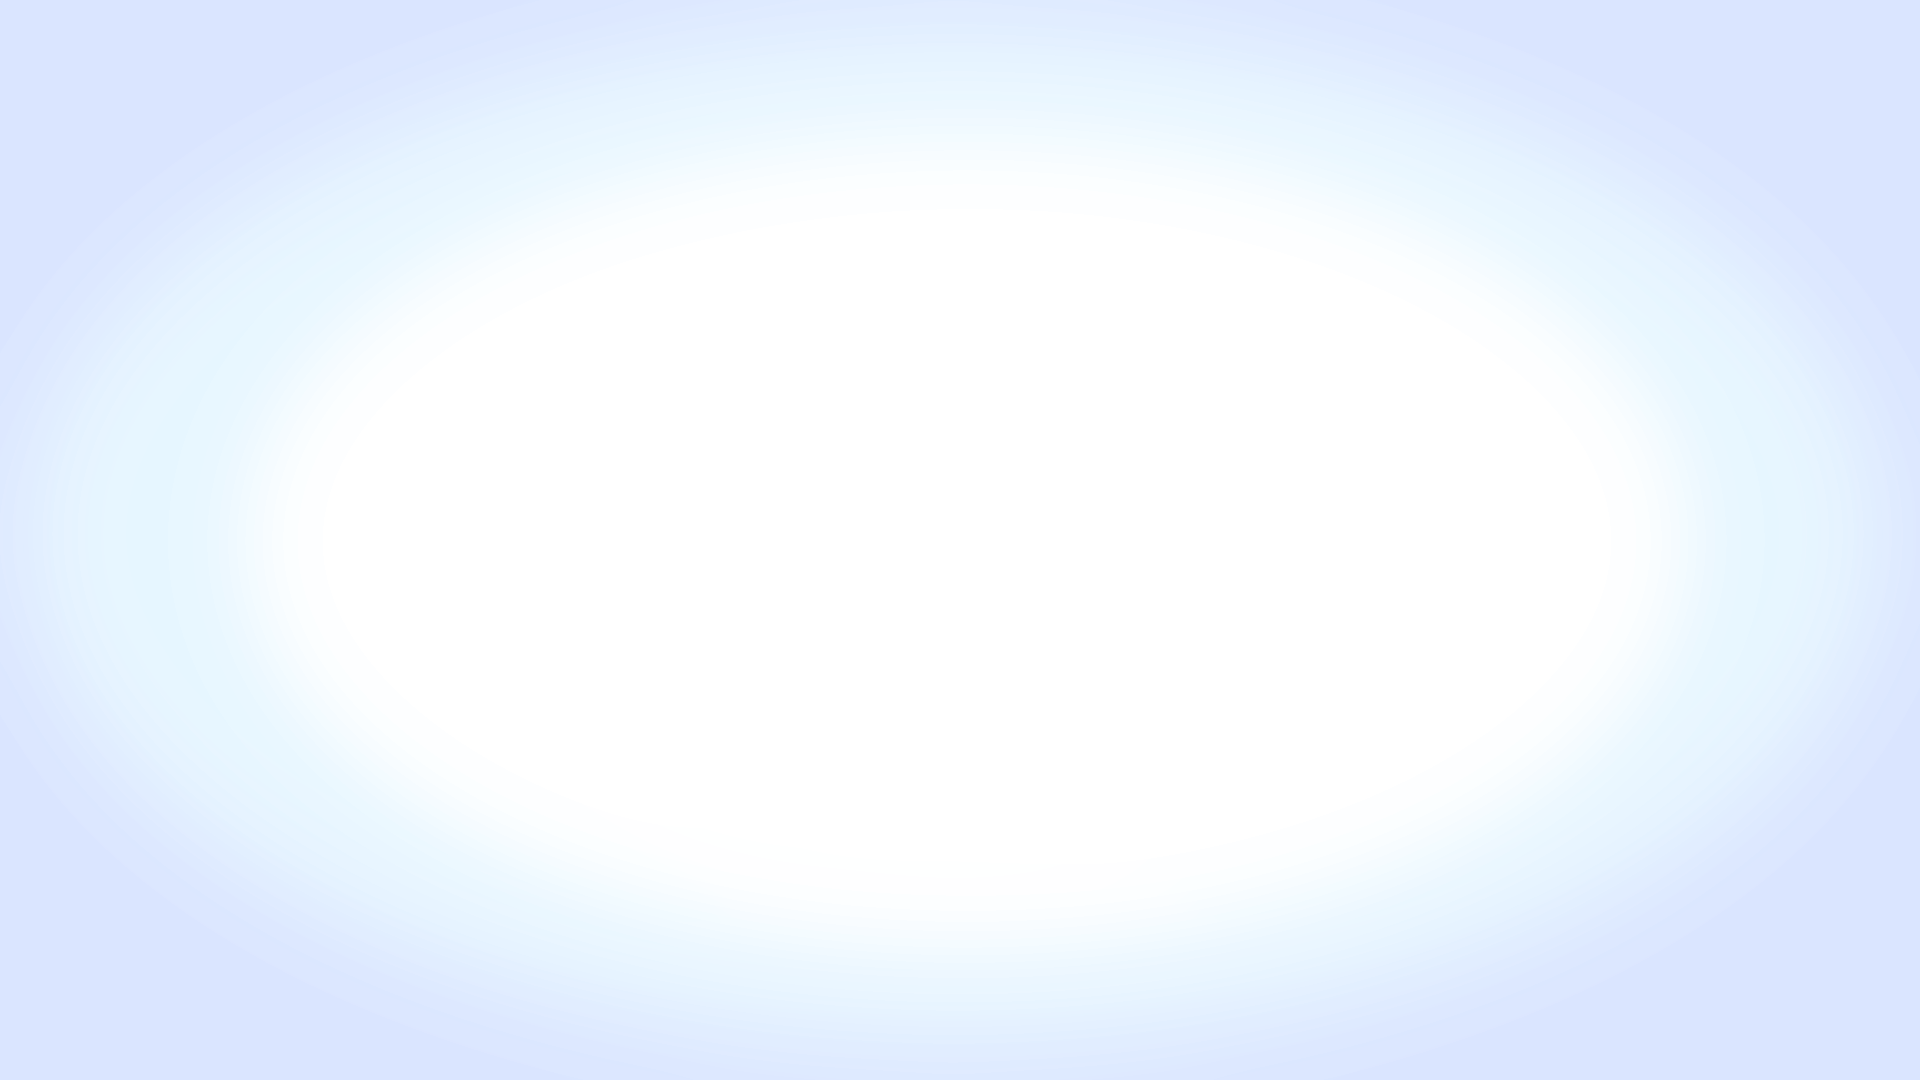
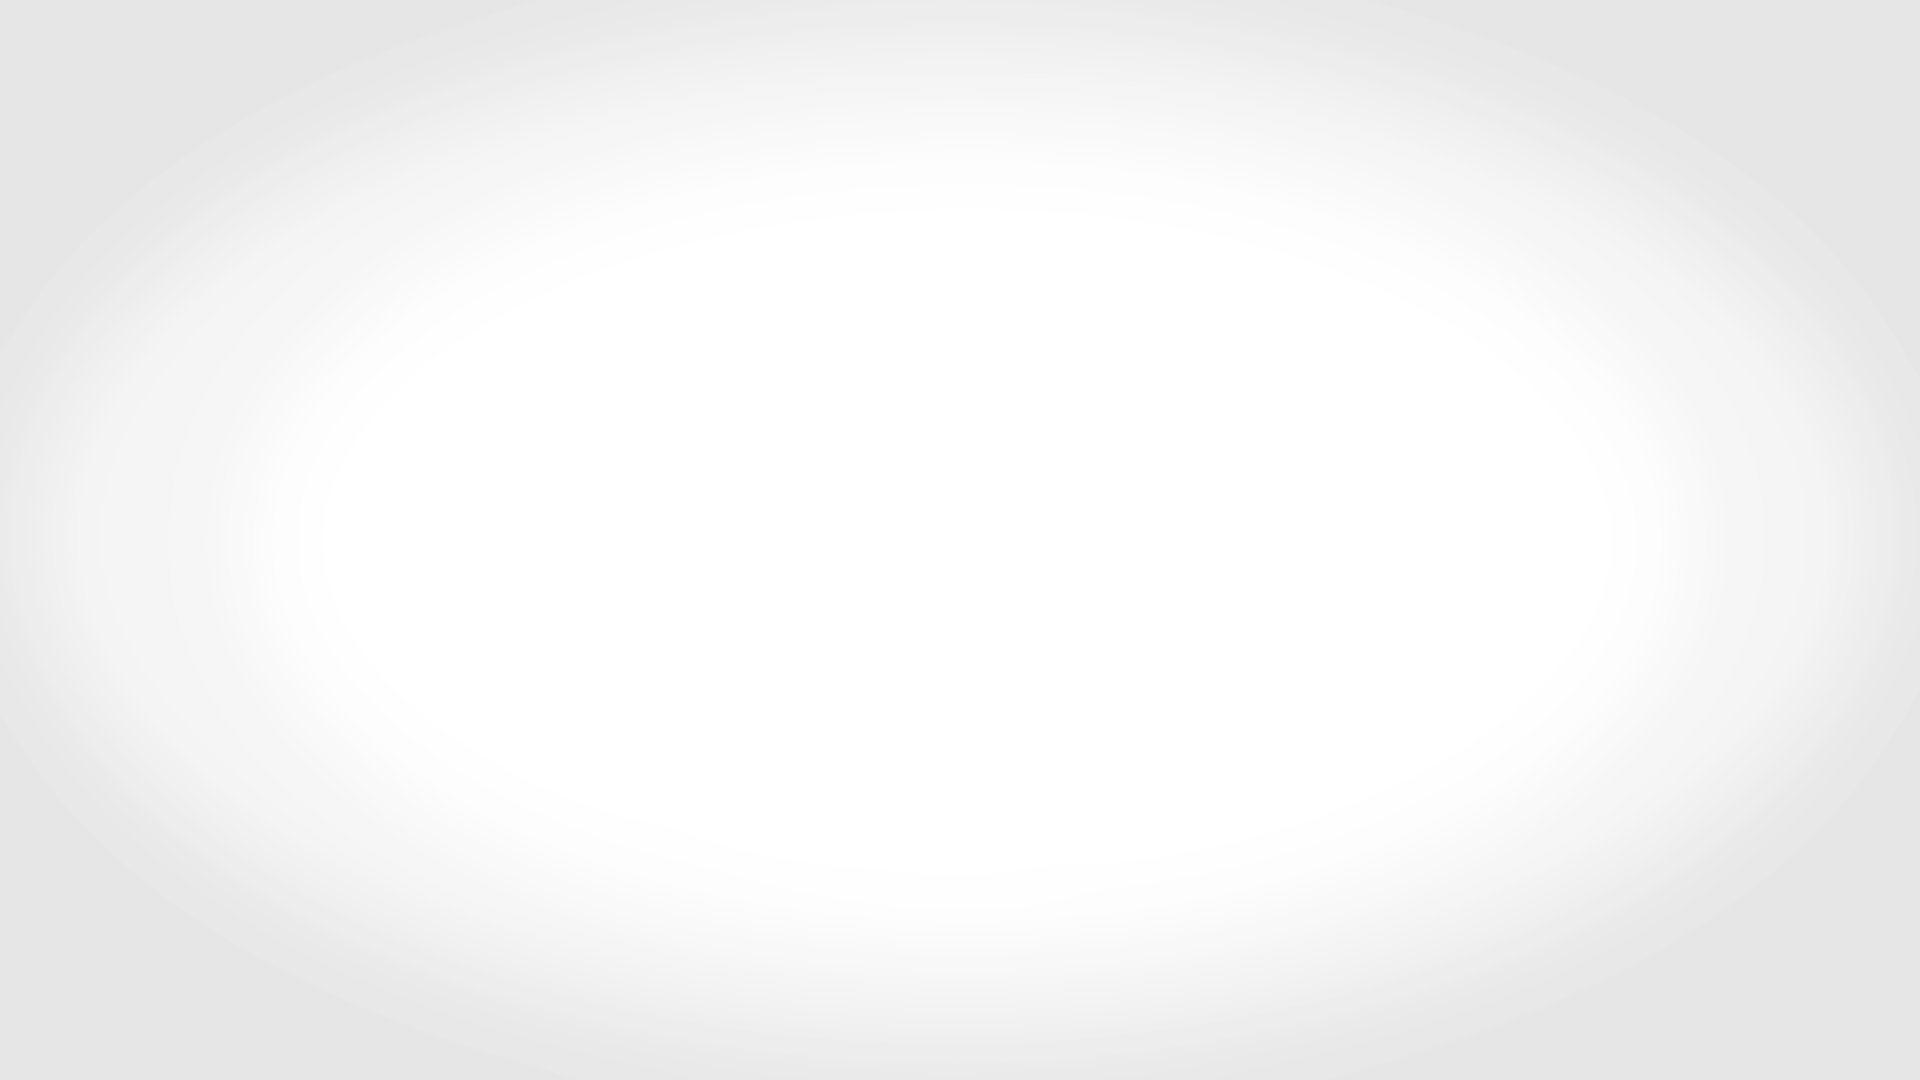
design update

diff --git a/index.html b/index.html
@@ -25,12 +25,7 @@
                 <img src="Assets/shroud.png" id="shroud">
                 <!-- UI Elements -->
                 <div align="center" style="position:absolute; top: 14%; width: 100vw; background-color: transparent;">
-                    <p style="font-size: 62px; text-align: center;" id="main-quoter">Dalton Fox</p>
-                    <img src="Assets/default.png" style="cursor: pointer; height: 22vh; width: auto; margin-top: -8vh; margin-bottom: -10vh; position: relative;">
-                    <div align="center" id="start-button">
-                        
-                        <h2 style="position: relative; padding-top: 2vh; border-top: 1px solid black; max-width: 500px; cursor: pointer; top: 9vh">Interactive Resume</h2>
-                    </div>
+                    
                 </div>
             </div>
 
@@ -38,6 +33,9 @@
             <div id="main-what">
                 <!-- Text -->
                 <div class="text-div">
+                    <br>
+                    <br>
+                    <br>
                     <h1>Introduction</h1>
                     <li>
                         Lorem ipsum dolor sit amet, consectetur adipiscing elit, sed do eiusmod tempor incididunt ut labore et dolore magna aliqua.
@@ -123,26 +121,15 @@
                 <div class="footer_div">
                     <table align="center" style="max-width: 1920px; padding-top: 2.5vh; border-spacing: 2.5vw;">
                         <tr>
-                            <td><a href="https://www.facebook.com/aspiretoimprove/"><img border="0" src="Assets/facebook_logo.png" width="36" height="36"></a></td>
-                            <td class="menu_footer"><a href="https://twitter.com/aspiretoimprove"><img border="0" src="Assets/twitter_logo.png" width="36" height="36"></a></td>
-                            <td class="menu_footer"><a href="https://www.youtube.com/channel/UC4r_WkEmYweu9nj_LwwuBLg"><img border="0" src="Assets/youtube_logo.png" width="36" height="36"></a></td>
-                            <td class="menu_footer"><a href="https://www.instagram.com/aspiretoimprove/"><img border="0" src="Assets/instagram_logo.png" width="36" height="36"></a></td>
-                        </tr>
-                    </table>
-                </div>
-                <!-- Bottom Footer -->
-                <div class="footer_div">
-                    <table align="center" style=" max-width: 1920px; padding-top: 2vh; border-spacing: 4.5vw;">
-                        <tr style="font-size: 10px">
-                            <td class="footer_link" id="footer-terms">Terms of Use</td>
-                            <td class="footer_link" id="footer-policy">Privacy Policy</td>
-                            <td class="footer_link" id="footer-support">Support</td>
-                            <td class="footer_link" id="footer-donate">Sponsors</td>
+                            <td><a href=""><img border="0" src="Assets/facebook_logo.png" width="36" height="36"></a></td>
+                            <td class="menu_footer"><a href=""><img border="0" src="Assets/twitter_logo.png" width="36" height="36"></a></td>
+                            <td class="menu_footer"><a href=""><img border="0" src="Assets/youtube_logo.png" width="36" height="36"></a></td>
+                            <td class="menu_footer"><a href=""><img border="0" src="Assets/instagram_logo.png" width="36" height="36"></a></td>
                         </tr>
                     </table>
                 </div>
                 <div class="footer_div">
-                    <table align="center" style="max-width: 1920px; border-spacing: 3vw;">
+                    <table align="center" style="max-width: 1920px; border-spacing: 2.5vw;">
                         <tr></tr>
                     </table>
                     <p id="copy-right" style="font-size: 80%;">COPYRIGHT © DALTON FOX 2018</p>
@@ -154,50 +141,10 @@
                 <!--<img src="Assets/Logo_transparent.png" style="padding-top: 1vh; width: auto; height: 20vh;">-->
             </div>
         </div>
-
-        <!-- Blog Page -->
-        <div class="hidden">
-
-        </div>
-
-        <!-- Support Page -->
-        <div class="hidden">
-
-        </div>
         
         <!-- Top Menu and Sub Menu -->
         <div id="menu">
-            <!--<input id="nav-logo" type="image" src="Assets/menu_logo.png">-->
-            <p id="nav-button" ></p>
-            <input type="checkbox" class="openSidebarMenu" id="openSidebarMenu">
-            <label for="openSidebarMenu" class="sidebarIconToggle">
-                <div class="spinner diagonal part-1"></div>
-                <div class="spinner horizontal"></div>
-                <div class="spinner diagonal part-2"></div>
-            </label>
-            <!-- Sub Menu Items -->
-            <div id="sub-menu">
-                <p class="menu_li">My Account</p>
-                <p class="menu_li">Database</p>
-                <p class="menu_li">Blog</p>
-                <p class="menu_li">About</p>
-                <p class="menu_li">Support</p>
-                <p class="menu_li">Contact Us</p>
-                <table class="menu_li" align="center" style="max-width: 1920px; padding-left: 1.5vw; border-spacing: 1.25vw; padding-top: 8vh;">
-                    <tr>
-                        <td><a href="https://www.facebook.com/aspiretoimprove/"><img border="0" src="Assets/facebook_logo.png" width="42" height="42"></a></td>
-                        <td class="menu_footer"><a href="https://twitter.com/aspiretoimprove"><img border="0" src="Assets/twitter_logo.png" width="42" height="42"></a></td>
-                        <td class="menu_footer"><a href="https://www.youtube.com/channel/UC4r_WkEmYweu9nj_LwwuBLg"><img border="0" src="Assets/youtube_logo.png" width="42" height="42"></a></td>
-                        <td class="menu_footer"><a href="https://www.instagram.com/aspiretoimprove/"><img border="0" src="Assets/instagram_logo.png" width="42" height="42"></a></td>
-                    </tr>
-                </table>
-            </div>
-            <!-- Pull-up Text Menu -->
-            <div id="pull-up" style="overflow: scroll">
-                <!-- Text -->
-                <p id="pull-up-head" class="menu_li" style="padding-top: 4vh;"></p>
-                <p id="pull-up-text" class="menu_li" style="overflow: scroll; margin-bottom: 200px"></p>
-            </div>
+            
         </div>
 
         <!-- PC Large Scale Design -->
@@ -208,7 +155,6 @@
         <script src="Modules/three.js"></script>
         <script src="Modules/Tween.js"></script>
         <script src="Modules/mobilecheck.js"></script>
-        <script src="Modules/policy.js"></script>
         <script src="main.js"></script>
     </body>
 </html>

diff --git a/main.js b/main.js
@@ -75,74 +75,12 @@ function init()
         window.addEventListener( 'resize', onWindowResize, false );
         document.addEventListener( 'mousemove', onDocumentMouseMove, false );
         onWindowResize();
-        document.getElementById("sub-menu").style.paddingTop = "5vh";
         var dElements = document.getElementsByClassName("footer_div");
         for(var i = 0; i < dElements.length; i++)
         {
             dElements[i].style.height = "55px";
         }
     }
-
-    // Sub Menu Controls
-    var sub_menu_open = false;
-    var pull_up_open = false;
-    window.onload = function()
-    {
-        document.getElementById("nav-button").onclick = function sub_menu_control()
-        {
-            if (sub_menu_open === false)
-            {
-                document.getElementById("sub-menu").style.opacity = 1;
-                document.getElementById("sub-menu").style.left = "0vw";
-                document.getElementById("sub-menu").style.top = "0vh";
-                document.getElementById("nav-button").src = "Assets/exit.png";
-                document.body.style.overflow = "hidden";
-                sub_menu_open = true
-            }
-            else if (sub_menu_open === true)
-            {
-                document.getElementById("sub-menu").style.opacity = 0;
-                document.getElementById("sub-menu").style.top = "-3vh";
-                document.getElementById("sub-menu").style.left = "100vw";
-                document.getElementById("nav-button").src = "Assets/drop.png";
-                document.body.style.overflow = "scroll";
-                sub_menu_open = false
-            }
-            if (pull_up_open)
-            {
-                document.getElementById("pull-up").style.opacity = 0;
-                document.getElementById("pull-up").style.top = "-3vw";
-                document.getElementById("pull-up").style.left = "100vw";
-                pull_up_open = false
-            }
-        };
-        document.getElementById("footer-terms").onclick = function sub_menu_terms()
-        {
-            document.getElementById("pull-up").scrollTop = 0;
-            document.getElementById("pull-up").style.opacity = 1;
-            document.getElementById("pull-up-head").textContent = "Terms of Service";
-            document.getElementById("pull-up-text").textContent = window.termsofservice;
-            document.getElementById("pull-up").style.left = "0vw";
-            document.getElementById("pull-up").style.top = "0vh";
-            document.getElementById("nav-button").src = "Assets/exit.png";
-            document.body.style.overflow = "hidden";
-            sub_menu_open = true;
-            pull_up_open = true;
-        };
-        document.getElementById("footer-policy").onclick = function sub_menu_policy()
-        {
-            document.getElementById("pull-up").scrollTop = 0;
-            document.getElementById("pull-up").style.opacity = 1;
-            document.getElementById("pull-up-head").textContent = "Privacy Policy";
-            document.getElementById("pull-up-text").textContent = window.privacypolicy;
-            document.getElementById("pull-up").style.left = "0vw";
-            document.getElementById("pull-up").style.top = "0vh";
-            document.getElementById("nav-button").src = "Assets/exit.png";
-            document.body.style.overflow = "hidden";
-            sub_menu_open = true;
-            pull_up_open = true;
-        }
-    };
 }
 
 function onDocumentMouseMove( event )
@@ -217,22 +155,18 @@ function onWindowResize()
 
     if (window.innerWidth > hbuffer)
     {
-        //document.getElementById("nav-logo").style.left = ((window.innerWidth - hbuffer) / 2 + 20).toString() + "px";
-        document.getElementById("nav-button").style.left = (window.innerWidth - ((window.innerWidth - hbuffer)/2) - 100).toString() + "px";
-        document.getElementById("left-buffer").style.width = ((window.innerWidth - hbuffer) / 2).toString() + "px";
+       document.getElementById("left-buffer").style.width = ((window.innerWidth - hbuffer) / 2).toString() + "px";
         document.getElementById("right-buffer").style.width = ((window.innerWidth - hbuffer) / 2).toString() + "px";
         document.getElementById("right-buffer").style.left = (window.innerWidth - ((window.innerWidth - hbuffer)/2).toString() + "px");
     }
     else
     {
-        //document.getElementById("nav-logo").style.left = (20).toString() + "px";
-        document.getElementById("nav-button").style.left = (window.innerWidth - 80).toString() + "px";
         document.getElementById("left-buffer").style.width = 0;
         document.getElementById("right-buffer").style.width = 0;
         document.getElementById("right-buffer").style.left = "100vw";
     }
 
-    document.getElementById("main-quoter").style.fontSize = (l_scale * 3.55).toString() + "px";
+    //document.getElementById("main-quoter").style.fontSize = (l_scale * 3.55).toString() + "px";
 
     for(var i = 0; i < pElements.length; i++)
     {
@@ -272,9 +206,8 @@ function render()
         {
             document.getElementById("menu").style.top = "0";
             document.getElementById("menu").style.position = "fixed";
-            document.getElementById("menu").style.borderBottom = "2px solid black";
             document.getElementById("menu").style.borderTop = "none";
-            document.getElementById("menu").style.height = "8vh";
+            
             scrollpast = true;
         }
     }
@@ -282,11 +215,10 @@ function render()
     {
         if (scrollpast)
         {
-            document.getElementById("menu").style.top = "92%";
+            document.getElementById("menu").style.top = "100%";
             document.getElementById("menu").style.position = "absolute";
             document.getElementById("menu").style.borderTop = "2px solid black";
-            document.getElementById("menu").style.borderBottom = "none";
-            document.getElementById("menu").style.height = "14vh";
+            
             scrollpast = false;
         }
     }

diff --git a/index.css b/index.css
@@ -36,6 +36,7 @@ input[type=checkbox] {
     transition: all 0.3s;
     box-sizing: border-box;
     float: left;
+    
 }
 .diagonal.part-2 {
     transition: all 0.3s;
@@ -43,6 +44,7 @@ input[type=checkbox] {
     position: relative;
     float: left;
     margin-top: 12px;
+    
 }
 input[type=checkbox]:checked ~ .sidebarIconToggle > .horizontal {
     transition: all 0.3s;
@@ -54,12 +56,14 @@ input[type=checkbox]:checked ~ .sidebarIconToggle > .diagonal.part-1 {
     box-sizing: border-box;
     transform: rotate(135deg);
     margin-top: 18px;
+    background-color: rgb(255, 200, 25);
 }
 input[type=checkbox]:checked ~ .sidebarIconToggle > .diagonal.part-2 {
     transition: all 0.3s;
     box-sizing: border-box;
     transform: rotate(-135deg);
     margin-top: -18px;
+    background-color: rgb(255, 200, 25);
 }
 
 .hidden {
@@ -126,7 +130,7 @@ li{
 
 #main-scene {
     position: absolute;
-    background-color: rgba(255, 255, 255, 0.58);
+    background-color: rgba(255, 255, 255, 0.5);
     width:100vw;
     height:100vh;
     z-index: 0;
@@ -170,7 +174,7 @@ h3{
 }
 
 .menu_footer {
-    border-left: 2px solid rgb(60, 135, 220);
+    border-left: 2px solid rgb(255, 200, 25);
     padding-left: 2.5vw;
     padding-top: 0.25vh;
     padding-bottom: 0.25vh;
@@ -206,12 +210,13 @@ main.img{
     -webkit-backface-visibility: hidden;
     position: absolute;
     left: 0;
-    top: 92%;
+    top: 100%;
     width: 100vw;
     z-index: 1;
     background-color: rgba(255,255,255,1);
-    height:14vh;
+    height:6vh;
     transition: opacity, ease 0s;
+    border-bottom: 2px solid black;
     border-top: 2px solid black;
 }
 
@@ -250,7 +255,7 @@ a:hover{
     top: 165.65vh;
     width: 100%;
     height: 70.60vh;
-    background-color: rgb(60, 135, 220);
+    background-color: rgb(255, 200, 25);
 }
 
 #main-divider2 {
@@ -259,7 +264,7 @@ a:hover{
     top: 298.8vh;
     width: 100%;
     height: 70.70vh;
-    background-color: rgb(60, 135, 220);
+    background-color: rgb(255, 200, 25);
 }
 
 #main-divider3 {
@@ -269,7 +274,7 @@ a:hover{
     height: 9vh;
     z-index: 1;
     border-top: 3px solid black;
-    background: linear-gradient(to bottom, rgba(60, 135, 220, 0.4) 0%,rgba(255,255,255,0) 100%);
+    background: linear-gradient(to bottom, rgba(255, 200, 25, 0.4) 0%,rgba(255,255,255,0) 100%);
     border-bottom: 2px solid white;
 }
 
@@ -397,7 +402,7 @@ a:hover{
     pointer-events: none;
     transition: opacity 0.20s ease 0s;
     opacity: 0;
-    background-color: rgb(60, 135, 220);
+    background-color: rgb(255, 200, 25);
     width: 100vw;
     height: 100vh;
     z-index: 2;
